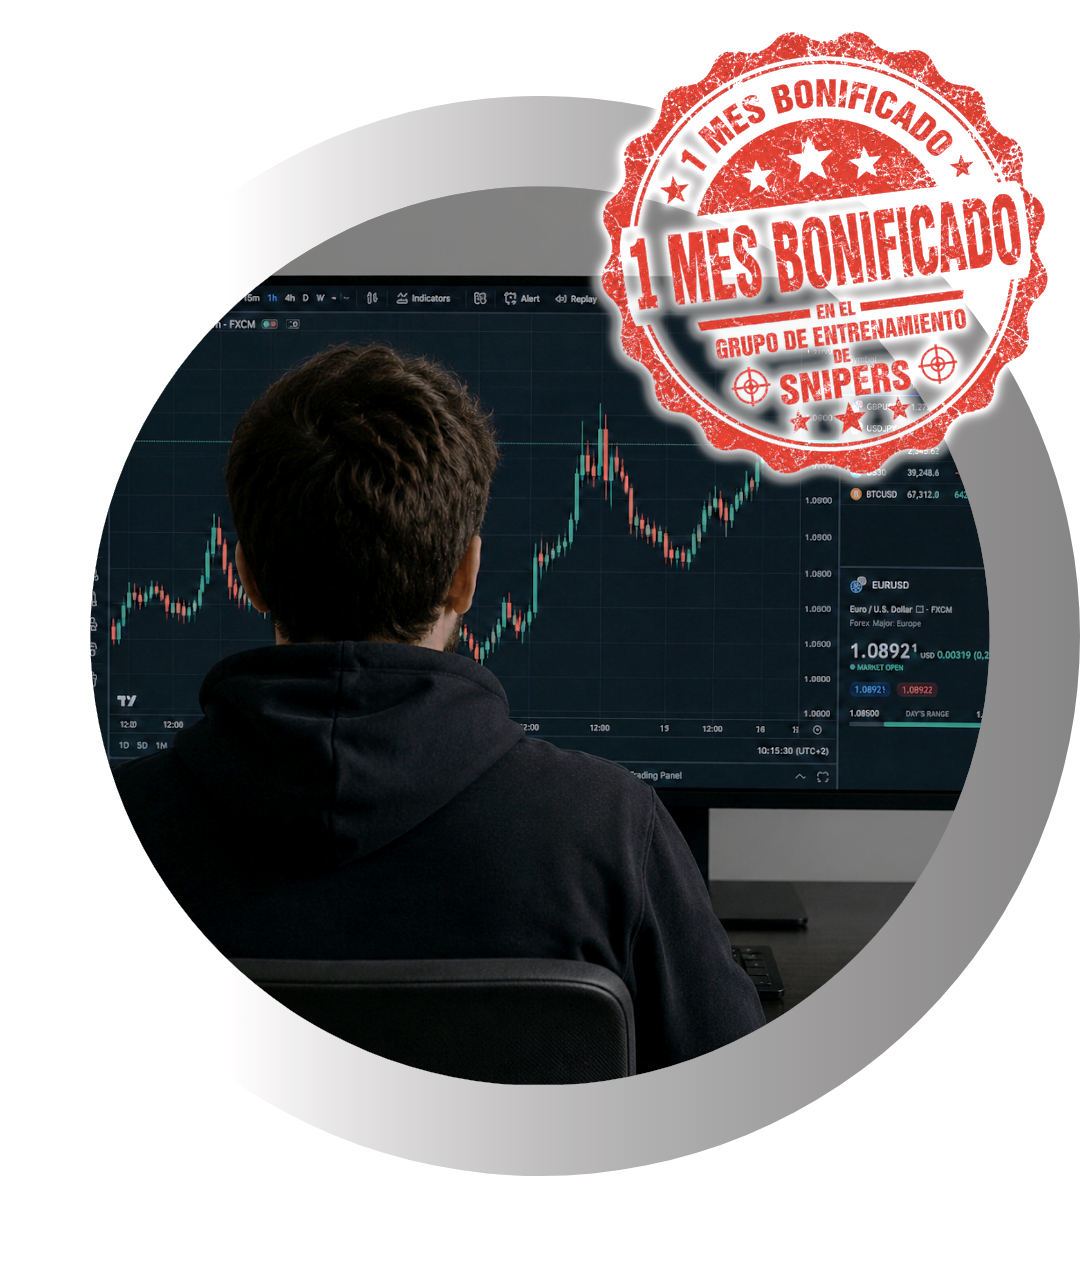
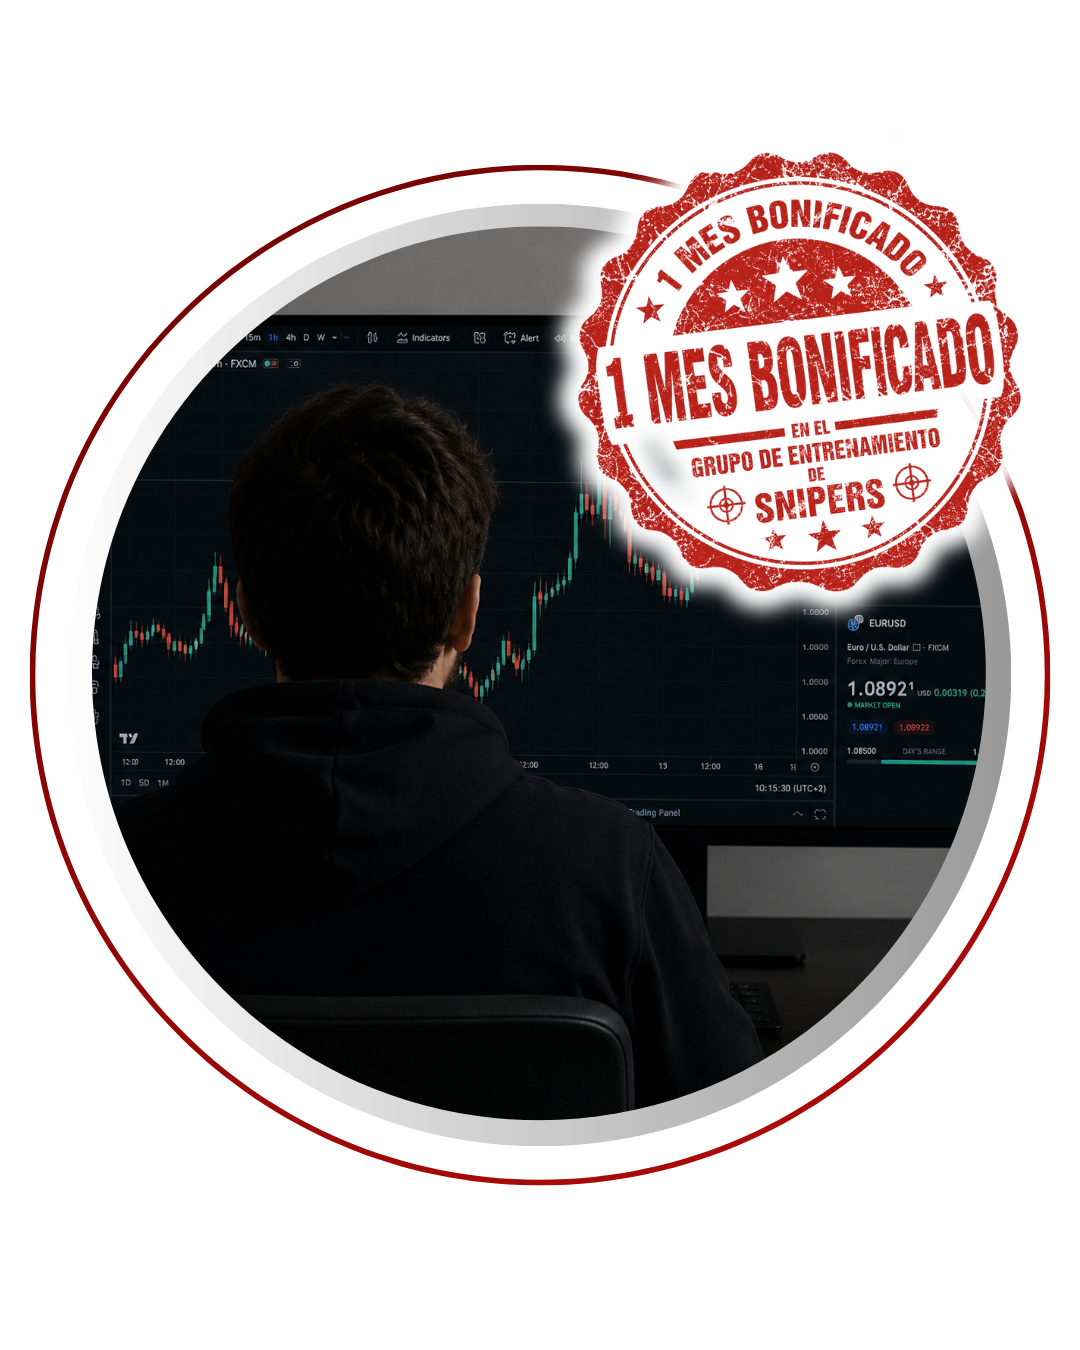
feat: custom badge and button colors, out-of-bounds safety, and html support in slides

diff --git a/src/config/heroSlides.ts b/src/config/heroSlides.ts
@@ -14,64 +14,85 @@ export interface HeroSlide {
   ctaUrl: string;
   active: boolean;
   order: number;
+  badgeBg?: string;
+  badgeTextColor?: string;
+  badgeBorderColor?: string;
+  btnEnabledBg?: string;
+  btnEnabledTextColor?: string;
+  btnDisabledBg?: string;
+  btnDisabledTextColor?: string;
 }
 
 export const heroSlides: HeroSlide[] = [
   {
-    title: "Dominá tus Emociones, Dominá el Mercado",
-    subtitle: "Descubrí las herramientas psicológicas indispensables para operar con consistencia y total disciplina.",
-    badge: "MÁS POPULAR",
-    baseColor: "#a4b1ddff", // Soft indigo-blue base
+    title: "Dominá tus Emociones, <span style='color: #5a72d4'>Dominá el Mercado</span>",
+    subtitle: "Descubrí las herramientas psicológicas indispensables para operar con <span style='color: #6ba1d3ff'>consistencia y total disciplina</span>.",
+    badge: "⭐ MÁS POPULAR",
+    baseColor: "#1b057cff", // Soft indigo-blue base
     gradientColors: [
-      "#5a72d4", // Medium blue
-      "#4255be", // Deep indigo-blue
-      "#8b5cf6"  // Violet/Purple
+      "#001047", // Medium blue
+      "#001047", // Deep indigo-blue
+      "#3851b8ff"  // Violet/Purple
     ],
     glowColor: "rgba(99, 102, 241, 0.22)",
-    textColor: "#0a1329", // Deep marine blue
-    subtitleColor: "#2d3748", // Dark slate gray
+    textColor: "#ffffffff",
+    subtitleColor: "#f9fafcff", // Dark slate gray
     durationMs: 5000, // Duración en ms
     courseSlug: "introduccion-al-psicotrading",
-    instructorImage: "/brand/mentores/el-gonzo/1.png",
+    instructorImage: "/brand/otros/brain.png",
     ctaText: "Ver Programa",
     ctaUrl: "/campus/introduccion-al-psicotrading",
     active: true,
     order: 1,
+    badgeBg: "rgba(255, 255, 255, 0.15)",
+    badgeTextColor: "#ffffff",
+    badgeBorderColor: "#5a72d4",
+    btnEnabledBg: "#f3f312ff",
+    btnEnabledTextColor: "#1a1a1aff",
+    btnDisabledBg: "",
+    btnDisabledTextColor: "",
   },
   {
-    title: "Gestión Monetaria y Riesgo Emocional",
-    subtitle: "Aprendé a calcular tu posición y a mantener la calma en tus drawdowns para proteger tu capital.",
-    badge: "ALTO RENDIMIENTO",
-    baseColor: "#a8e7caff", // Soft emerald-green base
+    title: "Gestión Monetaria y <br/><span style='color: #42c054'>Riesgo Emocional</span>",
+    subtitle: "Aprendé a calcular tu posición y a mantener la calma <br/>en tus drawdowns para <span style='color: #42c054'>proteger tu capital.</span>",
+    badge: "📈 ALTO RENDIMIENTO",
+    baseColor: "#023b2aff",
     gradientColors: [
-      "#48c48a", // Medium emerald
-      "#2e9c6a", // Deep forest green
-      "#e9ba69ff"  // Amber/Gold
+      "#002419",
+      "#098559ff",
+      "#094e33ff"
     ],
-    glowColor: "rgba(16, 185, 129, 0.18)",
-    textColor: "#052e16", // Deep forest green
-    subtitleColor: "#1b4332", // Dark pine green
+    glowColor: "rgba(16, 185, 72, 0.18)",
+    textColor: "#f3f3f3ff",
+    subtitleColor: "#ffffffff",
     durationMs: 5000, // Duración de 5 segundos
     courseSlug: "gestion-monetaria-y-riesgo",
-    instructorImage: "/brand/mentores/el-gonzo/2.png",
+    instructorImage: "/brand/otros/balanza.png",
     ctaText: "Ver Programa",
     ctaUrl: "/campus/gestion-monetaria-y-riesgo",
     active: true,
     order: 2,
+    badgeBg: "rgba(255, 255, 255, 0.15)",
+    badgeTextColor: "#ffffff",
+    badgeBorderColor: "rgba(52, 160, 10, 0.61)",
+    btnEnabledBg: "#42c054",
+    btnEnabledTextColor: "#ffffff",
+    btnDisabledBg: "",
+    btnDisabledTextColor: "",
   },
   {
-    title: "PENTA TRADE: Scalping Profesional",
-    subtitle: "Operá criptomonedas de alta volatilidad con 5 confirmaciones y gestión defensiva. ¡Incluye 1 MES BONIFICADO en el Entrenamiento Snipers!",
-    badge: "MÉTODO COMPLETO",
-    baseColor: "#ffdcd9", // Soft coral/salmon base
+    title: "<span style='color: #d32a2aff'>PENTA TRADE:</span> Scalping de Criptomonedas",
+    subtitle: "Operá criptomonedas de alta volatilidad con 5 confirmaciones y gestión defensiva. ¡Incluye <span style='color: #d32a2aff'>1 MES BONIFICADO</span> en el Entrenamiento Snipers!",
+    badge: "🚀 MÉTODO COMPLETO",
+    baseColor: "#000000ff",
     gradientColors: [
-      "#ffaba3", // Soft coral
-      "#ff786e", // Coral/reddish
-      "#f59e0b"  // Amber/Gold
+      "#1d0908ff",
+      "#66110cff",
+      "#ad2323ff"
     ],
     glowColor: "rgba(239, 68, 68, 0.18)",
-    textColor: "#3b0712", // Deep dark rose-black
-    subtitleColor: "#5c1d24", // Deep dark coral-gray
+    textColor: "#fff0f0ff",
+    subtitleColor: "#ffffffff",
     durationMs: 10000,
     courseSlug: "penta-trade",
     instructorImage: "/brand/otros/trader-mas-bonus.png",
@@ -79,5 +100,12 @@ export const heroSlides: HeroSlide[] = [
     ctaUrl: "/campus/penta-trade",
     active: true,
     order: 3,
+    badgeBg: "rgba(255, 255, 255, 0.15)",
+    badgeTextColor: "#ffffff",
+    badgeBorderColor: "rgba(172, 23, 23, 0.62)",
+    btnEnabledBg: "#d32a2aff",
+    btnEnabledTextColor: "#ffffffff",
+    btnDisabledBg: "",
+    btnDisabledTextColor: "",
   },
 ];

diff --git a/src/components/HeroSlider.tsx b/src/components/HeroSlider.tsx
@@ -12,9 +12,16 @@ export default function HeroSlider({ slides = [] }: HeroSliderProps) {
   const [currentIndex, setCurrentIndex] = useState(0);
   const [isPaused, setIsPaused] = useState(false);
 
+  // Reset index if out of bounds (e.g. when slides list filters dynamically)
+  useEffect(() => {
+    if (currentIndex >= slides.length && slides.length > 0) {
+      setCurrentIndex(0);
+    }
+  }, [slides.length, currentIndex]);
+
   const hasMultipleSlides = slides.length > 1;
 
-  const currentSlide = slides[currentIndex];
+  const currentSlide = slides[currentIndex] || slides[0];
   const currentDuration = currentSlide?.durationMs || 5000;
 
   useEffect(() => {
@@ -123,7 +130,14 @@ export default function HeroSlider({ slides = [] }: HeroSliderProps) {
                 {/* Left side: Information (Titles, Badge, CTA) */}
                 <div className="w-full md:max-w-2xl space-y-3.5 sm:space-y-4 md:space-y-3.5 my-auto">
                   {slide.badge && (
-                    <span className="inline-flex items-center px-2.5 py-0.5 rounded-full text-[10px] sm:text-xs font-bold tracking-widest bg-brand-primary/10 text-brand-primary border border-brand-primary/20 uppercase">
+                    <span 
+                      className="inline-flex items-center px-2.5 py-0.5 rounded-full text-[10px] sm:text-xs font-bold tracking-widest border uppercase"
+                      style={{
+                        backgroundColor: slide.badgeBg || 'rgba(99, 102, 241, 0.1)',
+                        color: slide.badgeTextColor || '#6366f1',
+                        borderColor: slide.badgeBorderColor || 'rgba(99, 102, 241, 0.2)'
+                      }}
+                    >
                       {slide.badge}
                     </span>
                   )}
@@ -131,22 +145,24 @@ export default function HeroSlider({ slides = [] }: HeroSliderProps) {
                   <h2
                     className="text-2xl sm:text-3xl md:text-4xl lg:text-5xl font-extrabold leading-tight tracking-tight"
                     style={{ color: slide.textColor }}
-                  >
-                    {slide.title}
-                  </h2>
+                    dangerouslySetInnerHTML={{ __html: slide.title }}
+                  />
 
                   <p
                     className="text-sm sm:text-base font-semibold line-clamp-3 max-w-2xl"
                     style={{ color: slide.subtitleColor }}
-                  >
-                    {slide.subtitle}
-                  </p>
+                    dangerouslySetInnerHTML={{ __html: slide.subtitle }}
+                  />
 
                   <div className="pt-2">
                     {slide.isAvailable !== false ? (
                       <Link
                         href={slide.ctaUrl}
-                        className="inline-flex items-center justify-center px-6 py-2.5 sm:px-7 sm:py-3 bg-slate-900 hover:bg-slate-800 text-white text-xs sm:text-sm md:text-base font-bold rounded-xl transition-all duration-200 shadow-md hover:scale-[1.02] active:scale-[0.98]"
+                        className="inline-flex items-center justify-center px-6 py-2.5 sm:px-7 sm:py-3 text-xs sm:text-sm md:text-base font-bold rounded-xl transition-all duration-200 shadow-md hover:scale-[1.02] active:scale-[0.98]"
+                        style={{
+                          backgroundColor: slide.btnEnabledBg || '#0f172a',
+                          color: slide.btnEnabledTextColor || '#ffffff'
+                        }}
                       >
                         <span>{slide.ctaText}</span>
                         <svg className="ml-1.5 h-4 w-4 transition-transform duration-200" fill="none" viewBox="0 0 24 24" stroke="currentColor">
@@ -156,7 +172,11 @@ export default function HeroSlider({ slides = [] }: HeroSliderProps) {
                     ) : (
                       <button
                         disabled
-                        className="inline-flex items-center justify-center px-6 py-2.5 sm:px-7 sm:py-3 bg-slate-200 text-slate-500 text-xs sm:text-sm md:text-base font-bold rounded-xl cursor-default opacity-75 shadow-sm border border-slate-300/40 select-none"
+                        className="inline-flex items-center justify-center px-6 py-2.5 sm:px-7 sm:py-3 text-xs sm:text-sm md:text-base font-bold rounded-xl shadow-md cursor-default select-none"
+                        style={{
+                          backgroundColor: slide.btnDisabledBg || slide.btnEnabledBg || '#0f172a',
+                          color: slide.btnDisabledTextColor || slide.btnEnabledTextColor || '#ffffff'
+                        }}
                       >
                         <span>Proximamente</span>
                       </button>

diff --git a/src/app/actions/courses.ts b/src/app/actions/courses.ts
@@ -5,7 +5,6 @@ import { revalidatePath } from 'next/cache';
 import { z } from 'zod';
 import { CourseType, Prisma, PaymentMode } from '@prisma/client';
 import { courseSectionsSchema } from '@/types/course';
-import { saveGlobalCampusVirtualImage } from '@/lib/globalCampusVirtual';
 
 const startDateInputSchema = z.object({
   id: z.string().optional(),
@@ -104,7 +103,7 @@ export async function createCourse(formData: z.infer<typeof courseSchema>) {
       // Guardar globalmente la imagen/video del campus virtual
       const campusSection = parsedSections.find((s: any) => s.type === 'campusVirtual');
       if (campusSection && campusSection.data && campusSection.data.image) {
-        saveGlobalCampusVirtualImage(campusSection.data.image);
+        await syncGlobalCampusVirtualMedia(campusSection.data.image);
       }
     }
 
@@ -218,7 +217,7 @@ export async function updateCourse(id: string, formData: z.infer<typeof courseSc
       // Guardar globalmente la imagen/video del campus virtual
       const campusSection = parsedSections.find((s: any) => s.type === 'campusVirtual');
       if (campusSection && campusSection.data && campusSection.data.image) {
-        saveGlobalCampusVirtualImage(campusSection.data.image);
+        await syncGlobalCampusVirtualMedia(campusSection.data.image);
       }
     }
 
@@ -335,5 +334,47 @@ export async function updateCoursesOrder(type: CourseType, orderedIds: string[])
   } catch (error: any) {
     console.error('Error al actualizar el orden de los cursos:', error);
     return { success: false, error: error.message || 'Error al actualizar el orden de los cursos.' };
+  }
+}
+
+async function syncGlobalCampusVirtualMedia(newImageUrl: string) {
+  try {
+    const courses = await db.course.findMany({
+      select: {
+        id: true,
+        descriptionSections: true,
+      }
+    });
+
+    for (const course of courses) {
+      if (!course.descriptionSections) continue;
+      
+      const sections = typeof course.descriptionSections === 'string'
+        ? JSON.parse(course.descriptionSections)
+        : (course.descriptionSections as any[]);
+        
+      if (Array.isArray(sections)) {
+        let modified = false;
+        sections.forEach((section: any) => {
+          if (section.type === 'campusVirtual' && section.data) {
+            if (section.data.image !== newImageUrl) {
+              section.data.image = newImageUrl;
+              modified = true;
+            }
+          }
+        });
+        
+        if (modified) {
+          await db.course.update({
+            where: { id: course.id },
+            data: {
+              descriptionSections: sections,
+            }
+          });
+        }
+      }
+    }
+  } catch (error) {
+    console.error('Error syncing global campus virtual media:', error);
   }
 }

diff --git a/src/app/admin/courses/[id]/edit/page.tsx b/src/app/admin/courses/[id]/edit/page.tsx
@@ -4,7 +4,6 @@ import Link from 'next/link';
 import { db } from '@/lib/db';
 import EditCourseForm from '@/components/EditCourseForm';
 import type { AdminCourseCampusContent } from '@/types/admin-course-content';
-import { applyGlobalCampusVirtual } from '@/lib/globalCampusVirtual';
 
 interface EditCoursePageProps {
   params: Promise<{ id: string }>;
@@ -107,7 +106,6 @@ export default async function AdminEditCoursePage({ params }: EditCoursePageProp
     ...course,
     priceUSDT: course.priceUSDT ? Number(course.priceUSDT) : null,
     originalPriceUSDT: course.originalPriceUSDT ? Number(course.originalPriceUSDT) : null,
-    descriptionSections: applyGlobalCampusVirtual(course.descriptionSections),
   };
 
   const initialCampusContent = serializeCampusContent(course);

diff --git a/src/app/campus/[slug]/page.tsx b/src/app/campus/[slug]/page.tsx
@@ -5,7 +5,6 @@ import { getServerSession } from 'next-auth';
 import { db } from '@/lib/db';
 import { authOptions } from '@/lib/auth';
 import CourseLandingSections from '@/components/CourseLandingSections';
-import { applyGlobalCampusVirtual } from '@/lib/globalCampusVirtual';
 
 interface CoursePageProps {
   params: Promise<{ slug: string }>;
@@ -63,7 +62,6 @@ export default async function CourseDetailPage({ params }: CoursePageProps) {
     ...course,
     priceUSDT: course.priceUSDT ? Number(course.priceUSDT) : null,
     originalPriceUSDT: course.originalPriceUSDT ? Number(course.originalPriceUSDT) : null,
-    descriptionSections: applyGlobalCampusVirtual(course.descriptionSections),
   };
 
   return (
